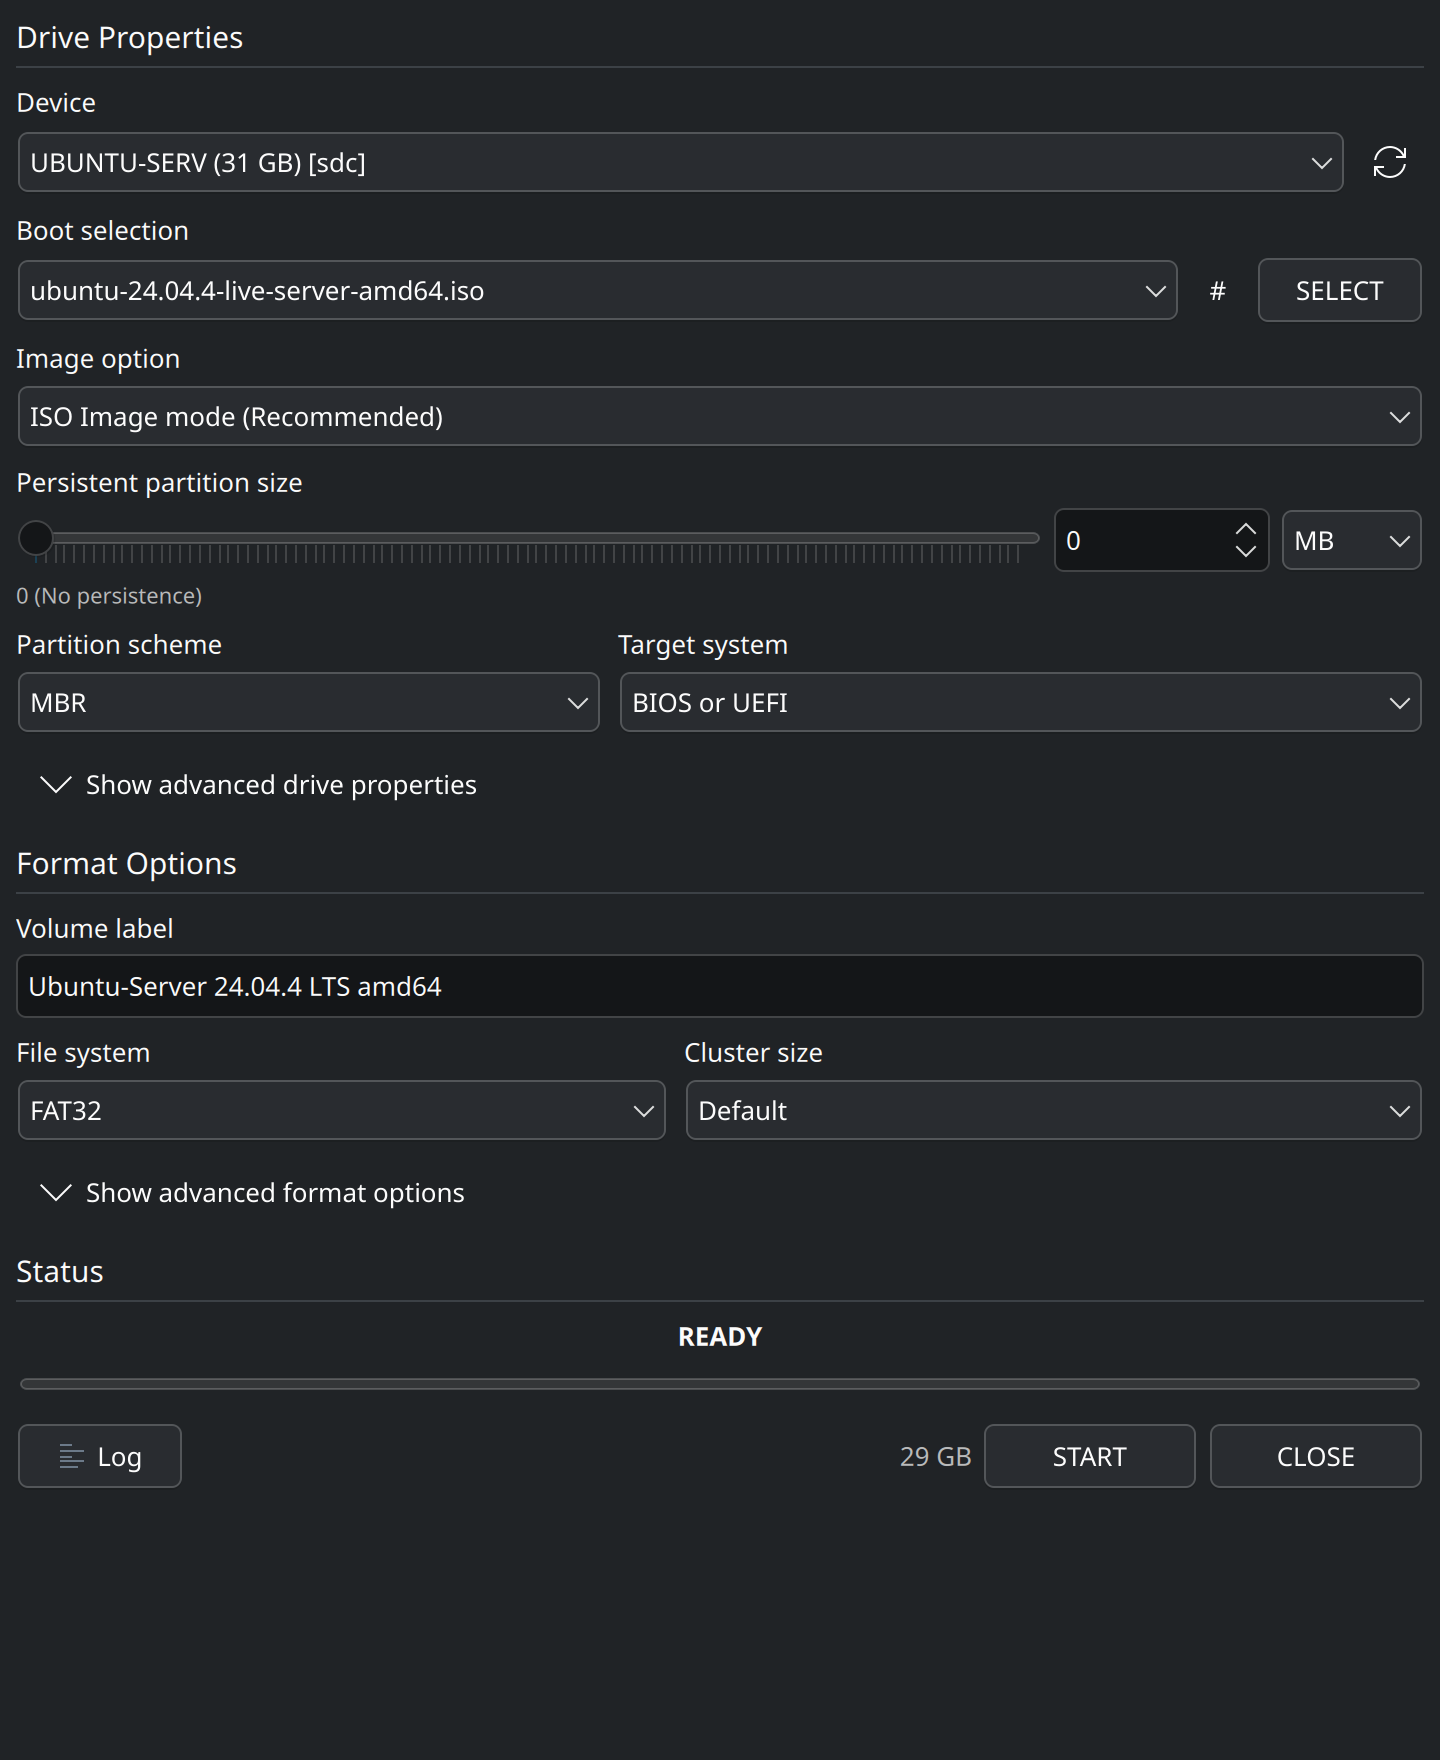
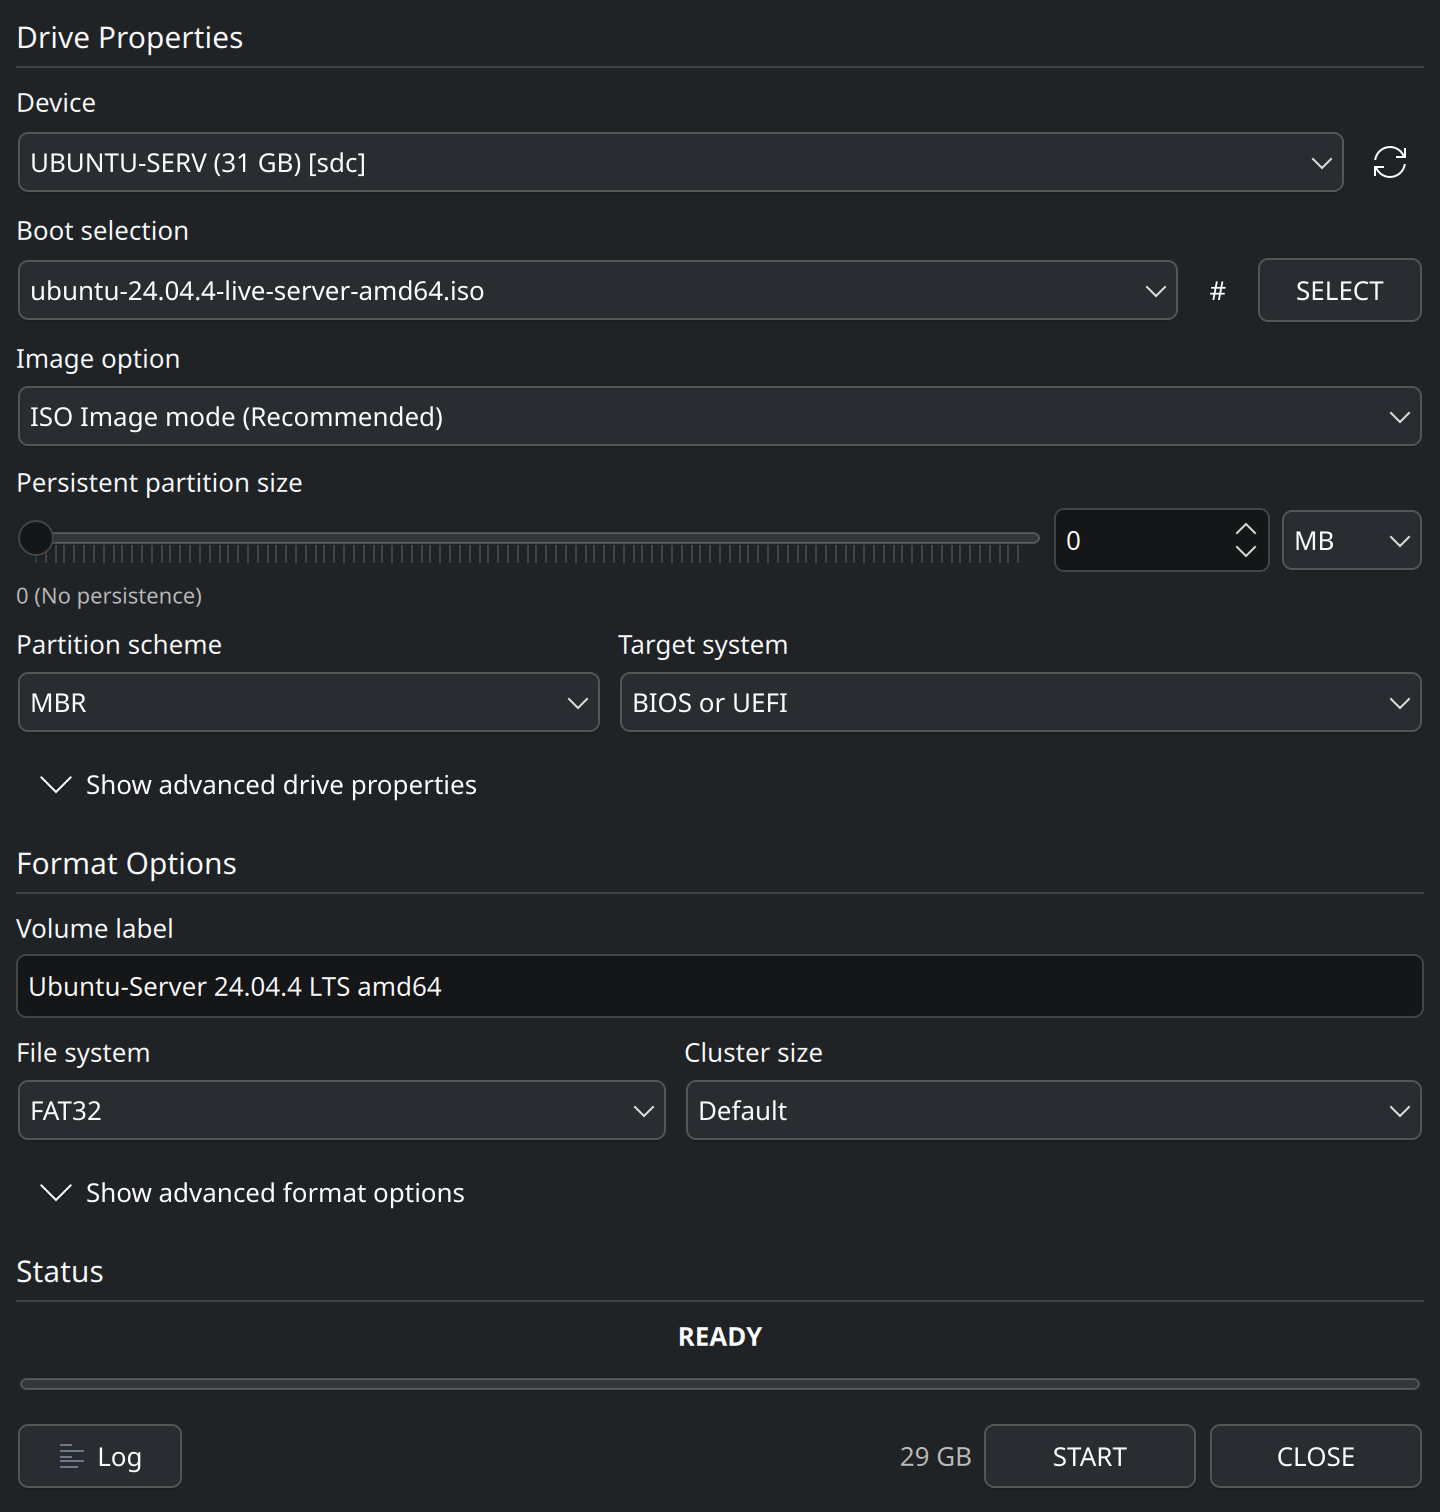
README screenshots: both windows content-only at the same height

diff --git a/README.md b/README.md
@@ -8,7 +8,7 @@ Fubuki makes a USB stick that boots, from Windows and Linux installers, live
 systems, DOS, and raw disk images. It does the things Rufus does that a plain
 `dd` cannot, and it does them with the tools a Linux system already has.
 
-<p align="center"><img src="docs/screenshots/fubuki-side-by-side.png" alt="Fubuki: the KDE window and the GNOME window"></p>
+<p align="center"><img src="docs/screenshots/fubuki-windows-v3.png" alt="Fubuki: the KDE window and the GNOME window"></p>
 
 - **Windows install media** on NTFS or exFAT, booting on UEFI through
   UEFI:NTFS, or on FAT32 with `install.wim` split for you.
